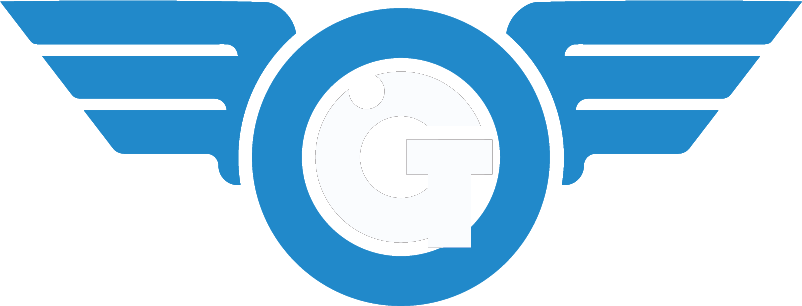
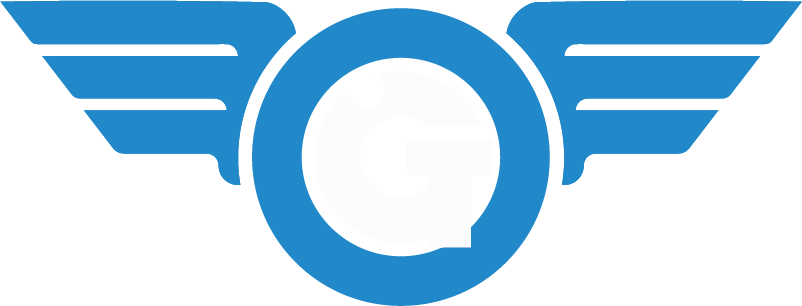
AJ-02 Ajusta identidade visual da navbar/sidebar

diff --git a/frontend/src/styles/gestec-design.css b/frontend/src/styles/gestec-design.css
@@ -2903,3 +2903,288 @@ body { font-size: 16px; line-height: 1.55; }
 }
 
 .gestec-app .funcionarios-container .gestec-data-table { min-width: 900px; }
+
+/* =========================================
+   SIDEBAR — CORES DOS TEMAS
+========================================= */
+
+/* Tema claro */
+.gestec-app:not(.dark-mode) .sidebar,
+.gestec-app:not(.dark-mode) .sidebar:hover,
+.gestec-app:not(.dark-mode) .sidebar:focus-within {
+  background: #edf8fd !important;
+  border-right: 1px solid #d6e8f3 !important;
+  color: #15243a !important;
+}
+
+/* Identidade visual */
+.gestec-app:not(.dark-mode) .sidebar-brand-text strong {
+  color: #090c5c !important;
+}
+
+.gestec-app:not(.dark-mode) .sidebar-brand-text small {
+  color: #1589ca !important;
+}
+
+/* Ícones */
+.gestec-app:not(.dark-mode) .sidebar .menu-item i,
+.gestec-app:not(.dark-mode) .sidebar:not(:hover):not(:focus-within) .menu-item i {
+  color: #090c5c !important;
+}
+
+.gestec-app:not(.dark-mode) .sidebar-section-label {
+  color: #627b91 !important;
+}
+
+.gestec-app:not(.dark-mode) .sidebar .menu-item {
+  color: #15243a !important;
+}
+
+.gestec-app:not(.dark-mode) .sidebar .menu-item:hover {
+  background: #dceff9 !important;
+}
+
+.gestec-app:not(.dark-mode) .sidebar .menu-item.active {
+  background: #d1eafa !important;
+  color: #090c5c !important;
+}
+
+.gestec-app:not(.dark-mode) .sidebar .sidebar-theme-toggle {
+  background: #e2f4fd !important;
+  border-color: #c5e2f1 !important;
+  color: #15243a !important;
+}
+
+/* Tema escuro */
+.gestec-app.dark-mode .sidebar,
+.gestec-app.dark-mode .sidebar:hover,
+.gestec-app.dark-mode .sidebar:focus-within {
+  background: radial-gradient(
+    ellipse at top left,
+    #102e48 0%,
+    #081725 58%,
+    #07131f 100%
+  ) !important;
+  border-right: 1px solid #29475d !important;
+}
+
+/* SIDEBAR — IDENTIDADE VISUAL DO TEMA CLARO */
+
+.gestec-app:not(.dark-mode) #gestec-primary-sidebar .sidebar-brand-text strong {
+  color: #090c5c !important;
+}
+
+.gestec-app:not(.dark-mode) #gestec-primary-sidebar .sidebar-brand-text small {
+  color: #1589ca !important;
+}
+
+/* Ícones com sidebar compacta */
+.gestec-app:not(.dark-mode) #gestec-primary-sidebar:not(:hover):not(:focus-within) .menu-item i {
+  color: #090c5c !important;
+}
+
+.gestec-app:not(.dark-mode) #gestec-primary-sidebar:not(:hover):not(:focus-within) .sidebar-theme-toggle > i {
+  color: #090c5c !important;
+}
+
+/* Ícones com sidebar expandida */
+.gestec-app:not(.dark-mode) #gestec-primary-sidebar:hover .menu-item i,
+.gestec-app:not(.dark-mode) #gestec-primary-sidebar:focus-within .menu-item i {
+  color: #090c5c !important;
+}
+
+.gestec-app:not(.dark-mode) #gestec-primary-sidebar:hover .sidebar-theme-toggle > i,
+.gestec-app:not(.dark-mode) #gestec-primary-sidebar:focus-within .sidebar-theme-toggle > i {
+  color: #090c5c !important;
+}
+
+/* SIDEBAR — TEXTO DO PERFIL NO TEMA CLARO */
+.gestec-app:not(.dark-mode) #gestec-primary-sidebar .perfil-informacoes strong {
+  color: #090c5c !important;
+}
+
+.gestec-app:not(.dark-mode) #gestec-primary-sidebar .perfil-informacoes small {
+  color: #1589ca !important;
+}
+
+/* SIDEBAR — ITEM ATIVO NO TEMA CLARO */
+.gestec-app:not(.dark-mode) #gestec-primary-sidebar .menu-item.active,
+.gestec-app:not(.dark-mode) #gestec-primary-sidebar .menu-item.active:hover {
+  background: linear-gradient(110deg, #1589ca 0%, #35b4e6 100%) !important;
+  border: 1px solid rgba(255, 255, 255, .25) !important;
+  color: #ffffff !important;
+  box-shadow:
+    0 7px 18px rgba(3, 13, 81, .18),
+    inset 0 0 0 1px rgba(255, 255, 255, .08) !important;
+}
+
+.gestec-app:not(.dark-mode) #gestec-primary-sidebar .menu-item.active i,
+.gestec-app:not(.dark-mode) #gestec-primary-sidebar .menu-item.active span {
+  color: #ffffff !important;
+}
+
+/* SIDEBAR — LOGO COMPLETA */
+.gestec-app #gestec-primary-sidebar .sidebar-brand {
+  display: flex !important;
+  flex-direction: column !important;
+  align-items: center !important;
+  justify-content: center !important;
+  gap: 5px !important;
+  width: 100% !important;
+  padding: 8px 4px 16px !important;
+}
+
+.gestec-app #gestec-primary-sidebar .sidebar-brand-logo {
+  display: flex !important;
+  align-items: center !important;
+  justify-content: center !important;
+  width: 100% !important;
+}
+
+.gestec-app #gestec-primary-sidebar .sidebar-brand-logo img {
+  display: block !important;
+  width: 100% !important;
+  max-width: 180px !important;
+  height: auto !important;
+  object-fit: contain !important;
+}
+
+.gestec-app #gestec-primary-sidebar .sidebar-brand-subtitle {
+  display: block !important;
+  width: 100% !important;
+  color: #1589ca !important;
+  font-size: 12px !important;
+  font-weight: 700 !important;
+  letter-spacing: 1px !important;
+  text-align: center !important;
+  white-space: nowrap !important;
+}
+
+/* SIDEBAR — ALTERNÂNCIA DAS LOGOS */
+
+/* Estado expandido */
+.gestec-app #gestec-primary-sidebar .sidebar-logo-expandida {
+  display: block !important;
+}
+
+.gestec-app #gestec-primary-sidebar .sidebar-logo-reduzida {
+  display: none !important;
+}
+
+.gestec-app #gestec-primary-sidebar .sidebar-brand-subtitle {
+  display: block !important;
+}
+
+/* Estado reduzido */
+.gestec-app #gestec-primary-sidebar:not(:hover):not(:focus-within) .sidebar-logo-expandida {
+  display: none !important;
+}
+
+.gestec-app #gestec-primary-sidebar:not(:hover):not(:focus-within) .sidebar-logo-reduzida {
+  display: block !important;
+  width: 80px !important;
+  max-width: 80px !important;
+  height: auto !important;
+}
+
+.gestec-app #gestec-primary-sidebar:not(:hover):not(:focus-within) .sidebar-brand-subtitle {
+  display: none !important;
+}
+
+/* SIDEBAR — CORREÇÃO DA ALTERNÂNCIA DAS LOGOS */
+
+/* SIDEBAR EXPANDIDA */
+.gestec-app #gestec-primary-sidebar:hover .sidebar-logo-expandida,
+.gestec-app #gestec-primary-sidebar:focus-within .sidebar-logo-expandida {
+  display: block !important;
+}
+
+.gestec-app #gestec-primary-sidebar:hover .sidebar-logo-reduzida,
+.gestec-app #gestec-primary-sidebar:focus-within .sidebar-logo-reduzida {
+  display: none !important;
+}
+
+.gestec-app #gestec-primary-sidebar:hover .sidebar-brand-subtitle,
+.gestec-app #gestec-primary-sidebar:focus-within .sidebar-brand-subtitle {
+  display: block !important;
+}
+
+/* SIDEBAR REDUZIDA */
+.gestec-app #gestec-primary-sidebar:not(:hover):not(:focus-within) .sidebar-logo-expandida {
+  display: none !important;
+}
+
+.gestec-app #gestec-primary-sidebar:not(:hover):not(:focus-within) .sidebar-brand-subtitle {
+  display: none !important;
+}
+
+/* SIDEBAR — LOGOS DO TEMA ESCURO */
+
+/* Esconde as logos escuras no tema claro */
+.gestec-app:not(.dark-mode) #gestec-primary-sidebar .sidebar-logo-dark-expandida,
+.gestec-app:not(.dark-mode) #gestec-primary-sidebar .sidebar-logo-dark-reduzida {
+  display: none !important;
+}
+
+/* Tema escuro — sidebar expandida */
+.gestec-app.dark-mode #gestec-primary-sidebar:hover .sidebar-logo-expandida,
+.gestec-app.dark-mode #gestec-primary-sidebar:focus-within .sidebar-logo-expandida,
+.gestec-app.dark-mode #gestec-primary-sidebar:hover .sidebar-logo-reduzida,
+.gestec-app.dark-mode #gestec-primary-sidebar:focus-within .sidebar-logo-reduzida {
+  display: none !important;
+}
+
+.gestec-app.dark-mode #gestec-primary-sidebar:hover .sidebar-logo-dark-expandida,
+.gestec-app.dark-mode #gestec-primary-sidebar:focus-within .sidebar-logo-dark-expandida {
+  display: block !important;
+  width: 100% !important;
+  max-width: 180px !important;
+  height: auto !important;
+}
+
+.gestec-app.dark-mode #gestec-primary-sidebar:hover .sidebar-logo-dark-reduzida,
+.gestec-app.dark-mode #gestec-primary-sidebar:focus-within .sidebar-logo-dark-reduzida {
+  display: none !important;
+}
+
+/* Tema escuro — sidebar reduzida */
+.gestec-app.dark-mode #gestec-primary-sidebar:not(:hover):not(:focus-within) .sidebar-logo-expandida,
+.gestec-app.dark-mode #gestec-primary-sidebar:not(:hover):not(:focus-within) .sidebar-logo-reduzida,
+.gestec-app.dark-mode #gestec-primary-sidebar:not(:hover):not(:focus-within) .sidebar-logo-dark-expandida {
+  display: none !important;
+}
+
+.gestec-app.dark-mode #gestec-primary-sidebar:not(:hover):not(:focus-within) .sidebar-logo-dark-reduzida {
+  display: block !important;
+  width: 80px !important;
+  max-width: 80px !important;
+  height: auto !important;
+}
+
+/* Subtítulo no tema escuro */
+.gestec-app.dark-mode #gestec-primary-sidebar .sidebar-brand-subtitle {
+  color: #91e4ff !important;
+}
+
+/* LOGO DARK — SIDEBAR REDUZIDA */
+.gestec-app.dark-mode #gestec-primary-sidebar:not(:hover):not(:focus-within) .sidebar-brand {
+  padding: 20px 0 15px !important;
+}
+
+/* LINHA DA LOGO — TEMA CLARO */
+.gestec-app:not(.dark-mode) #gestec-primary-sidebar .sidebar-brand {
+  border-bottom: none !important;
+  box-shadow: none !important;
+  position: relative !important;
+}
+
+.gestec-app:not(.dark-mode) #gestec-primary-sidebar .sidebar-brand::after {
+  content: "" !important;
+  position: absolute !important;
+  bottom: 0 !important;
+  left: 8px !important;
+  right: 8px !important;
+  height: 0.5px !important;
+  background: #090c5c !important;
+  opacity: 0.2 !important;
+}

diff --git a/frontend/src/components/Sidebar.tsx b/frontend/src/components/Sidebar.tsx
@@ -1,8 +1,10 @@
 
 import { useEffect, useState } from "react";
 import { NavLink, useNavigate } from "react-router-dom";
-
-import logo from "../images/AZUL.CLARO_BRANCO_SemNome.png";
+import logoExpandida from "../images/GesTec_AzulClaro.Preto.png";
+import logoReduzida from "../images/SemNome_Preta.AzulClaro.png";
+import logoDarkExpandida from "../images/AZUL.CLARO_BRANCO.png";
+import logoDarkReduzida from "../images/AZUL.CLARO_BRANCO_SemNome.png";
 import { getStoredUser, authService } from "../services/auth";
 import type { PerfilFuncionario } from "../types/api";
 import {
@@ -73,13 +75,34 @@ function Sidebar({ darkMode, setDarkMode }: SidebarProps) {
                 className="sidebar-brand"
                 aria-label="GesTec — página inicial"
             >
-                <span className="sidebar-brand-mark">
-                    <img src={logo} alt="" />
+                <span className="sidebar-brand-logo">
+                    <img
+                        className="sidebar-logo-expandida"
+                        src={logoExpandida}
+                        alt="GesTec"
+                    />
+
+                    <img
+                        className="sidebar-logo-reduzida"
+                        src={logoReduzida}
+                        alt="GesTec"
+                    />
+
+                    <img
+                        className="sidebar-logo-dark-expandida"
+                        src={logoDarkExpandida}
+                        alt="GesTec"
+                    />
+
+                    <img
+                        className="sidebar-logo-dark-reduzida"
+                        src={logoDarkReduzida}
+                        alt="GesTec"
+                    />
                 </span>
 
-                <span className="sidebar-brand-text">
-                    <strong>GesTec</strong>
-                    <small>SISTEMA DE GESTÃO</small>
+                <span className="sidebar-brand-subtitle">
+                    SISTEMA DE GESTÃO
                 </span>
             </NavLink>
 
@@ -224,9 +247,8 @@ function Sidebar({ darkMode, setDarkMode }: SidebarProps) {
                         aria-pressed={darkMode}
                     >
                         <i
-                            className={`fa-solid ${
-                                darkMode ? "fa-sun" : "fa-moon"
-                            }`}
+                            className={`fa-solid ${darkMode ? "fa-sun" : "fa-moon"
+                                }`}
                             aria-hidden="true"
                         />
 
@@ -237,9 +259,8 @@ function Sidebar({ darkMode, setDarkMode }: SidebarProps) {
                         </span>
 
                         <span
-                            className={`sidebar-theme-switch${
-                                darkMode ? " ligado" : ""
-                            }`}
+                            className={`sidebar-theme-switch${darkMode ? " ligado" : ""
+                                }`}
                             aria-hidden="true"
                         >
                             <span />
@@ -280,11 +301,10 @@ function Sidebar({ darkMode, setDarkMode }: SidebarProps) {
                     </span>
 
                     <i
-                        className={`fa-solid ${
-                            perfilAberto
-                                ? "fa-chevron-down"
-                                : "fa-chevron-up"
-                        }`}
+                        className={`fa-solid ${perfilAberto
+                            ? "fa-chevron-down"
+                            : "fa-chevron-up"
+                            }`}
                         aria-hidden="true"
                     />
                 </button>
